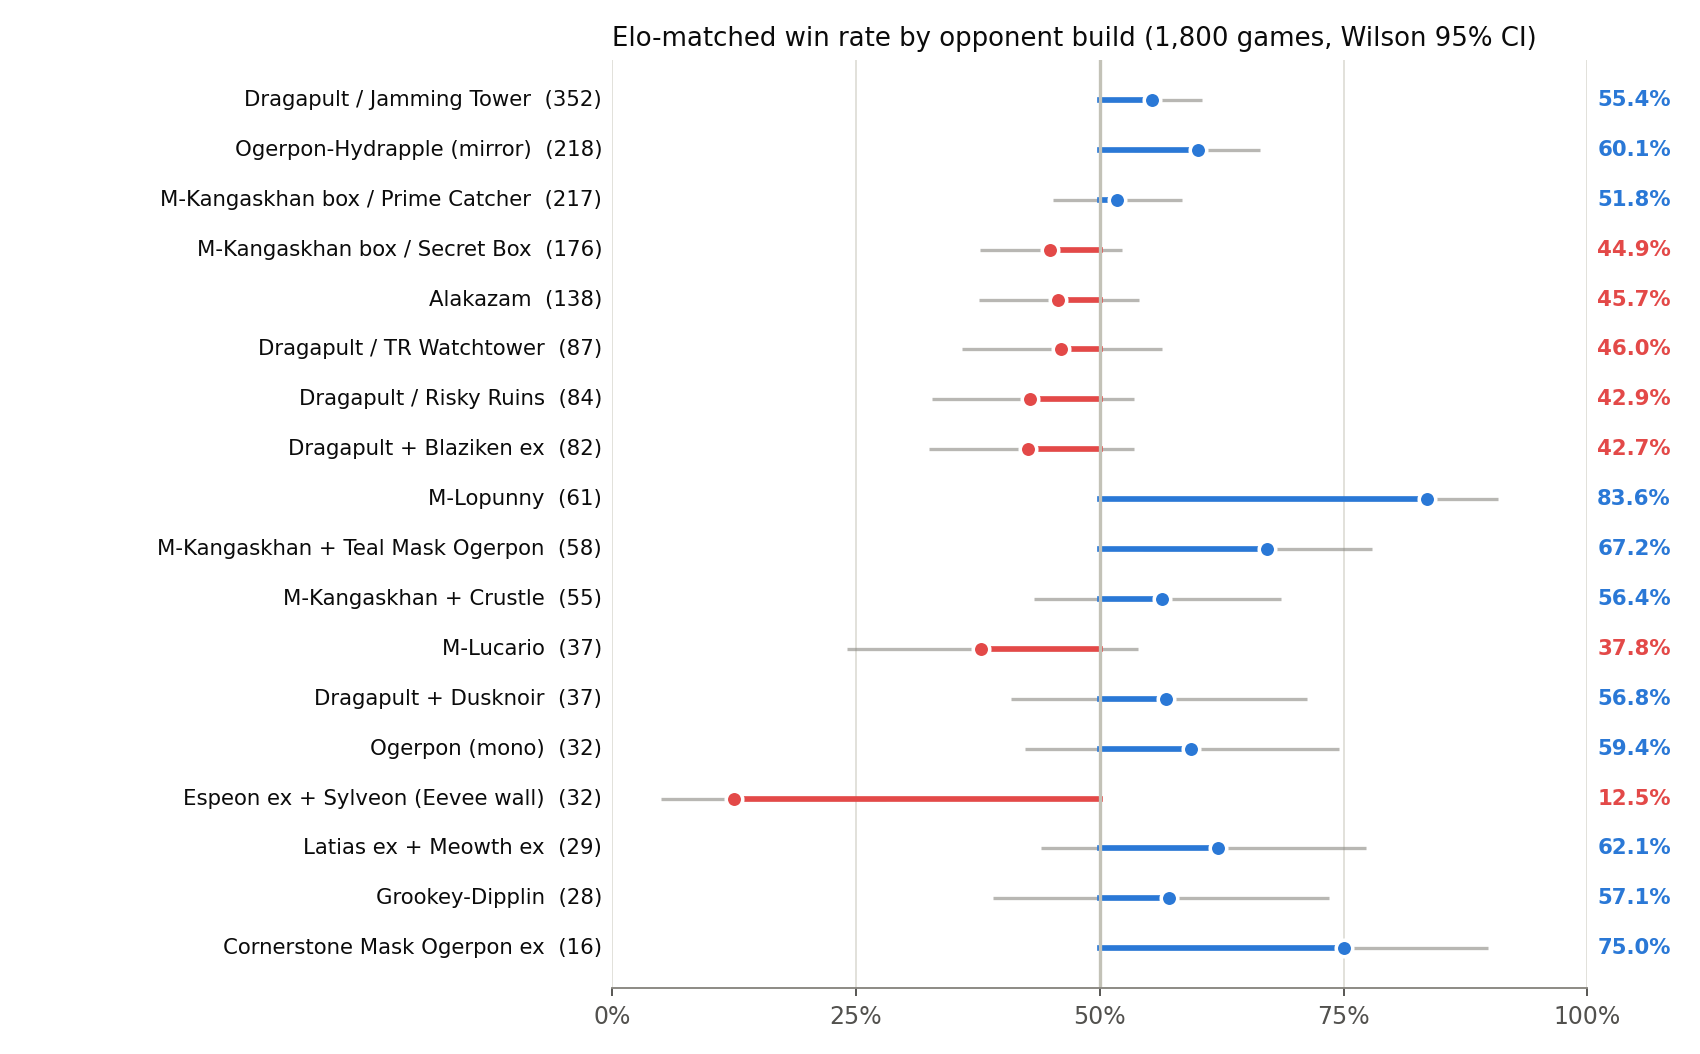
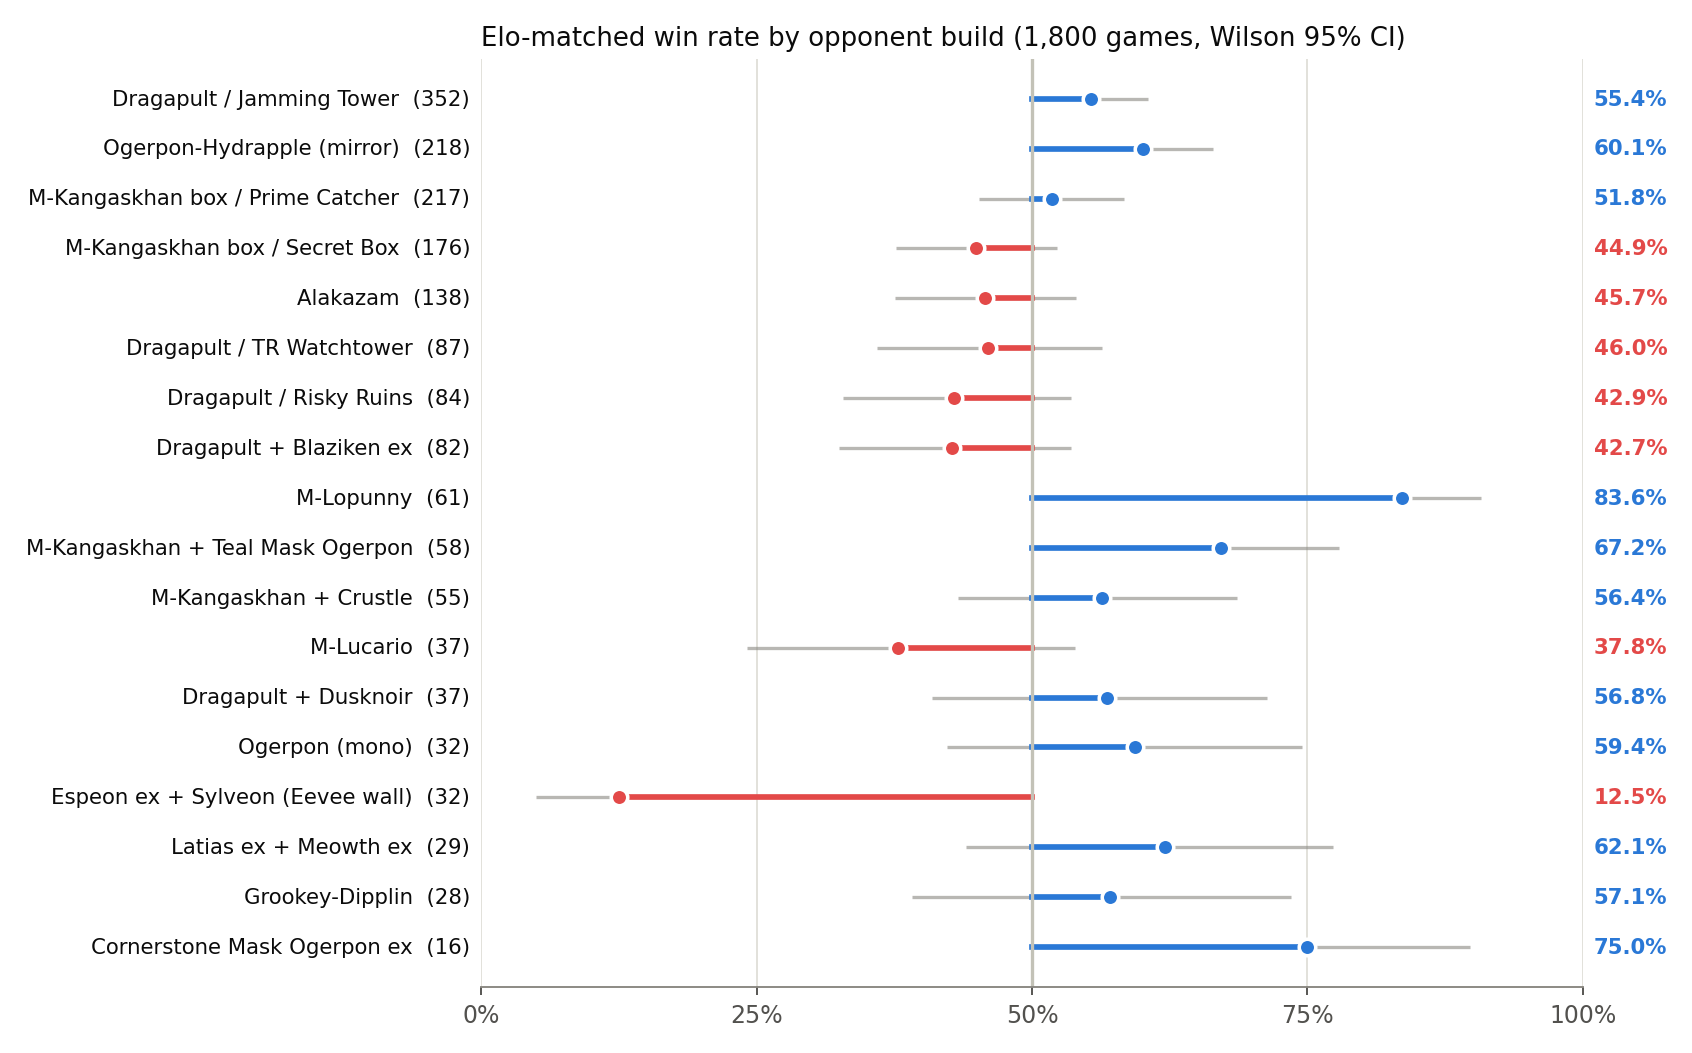
Center matchup chart and balance figure margins

diff --git a/analysis/_writeup_figs.py b/analysis/_writeup_figs.py
@@ -93,7 +93,7 @@ ax.spines["left"].set_visible(False)
 ax.set_title("Elo-matched win rate by opponent build (1,800 games, Wilson 95% CI)",
              loc="left", fontsize=11, color=INK)
 fig.tight_layout()
-fig.subplots_adjust(left=.36)
-fig.savefig(os.path.join(OUT, "writeup_fig4_matchups.png"), dpi=170)
+fig.savefig(os.path.join(OUT, "writeup_fig4_matchups.png"), dpi=170,
+            bbox_inches="tight", pad_inches=.15)
 plt.close(fig)
 print("wrote reports/writeup_fig3_training.png (copy), writeup_fig4_matchups.png")
